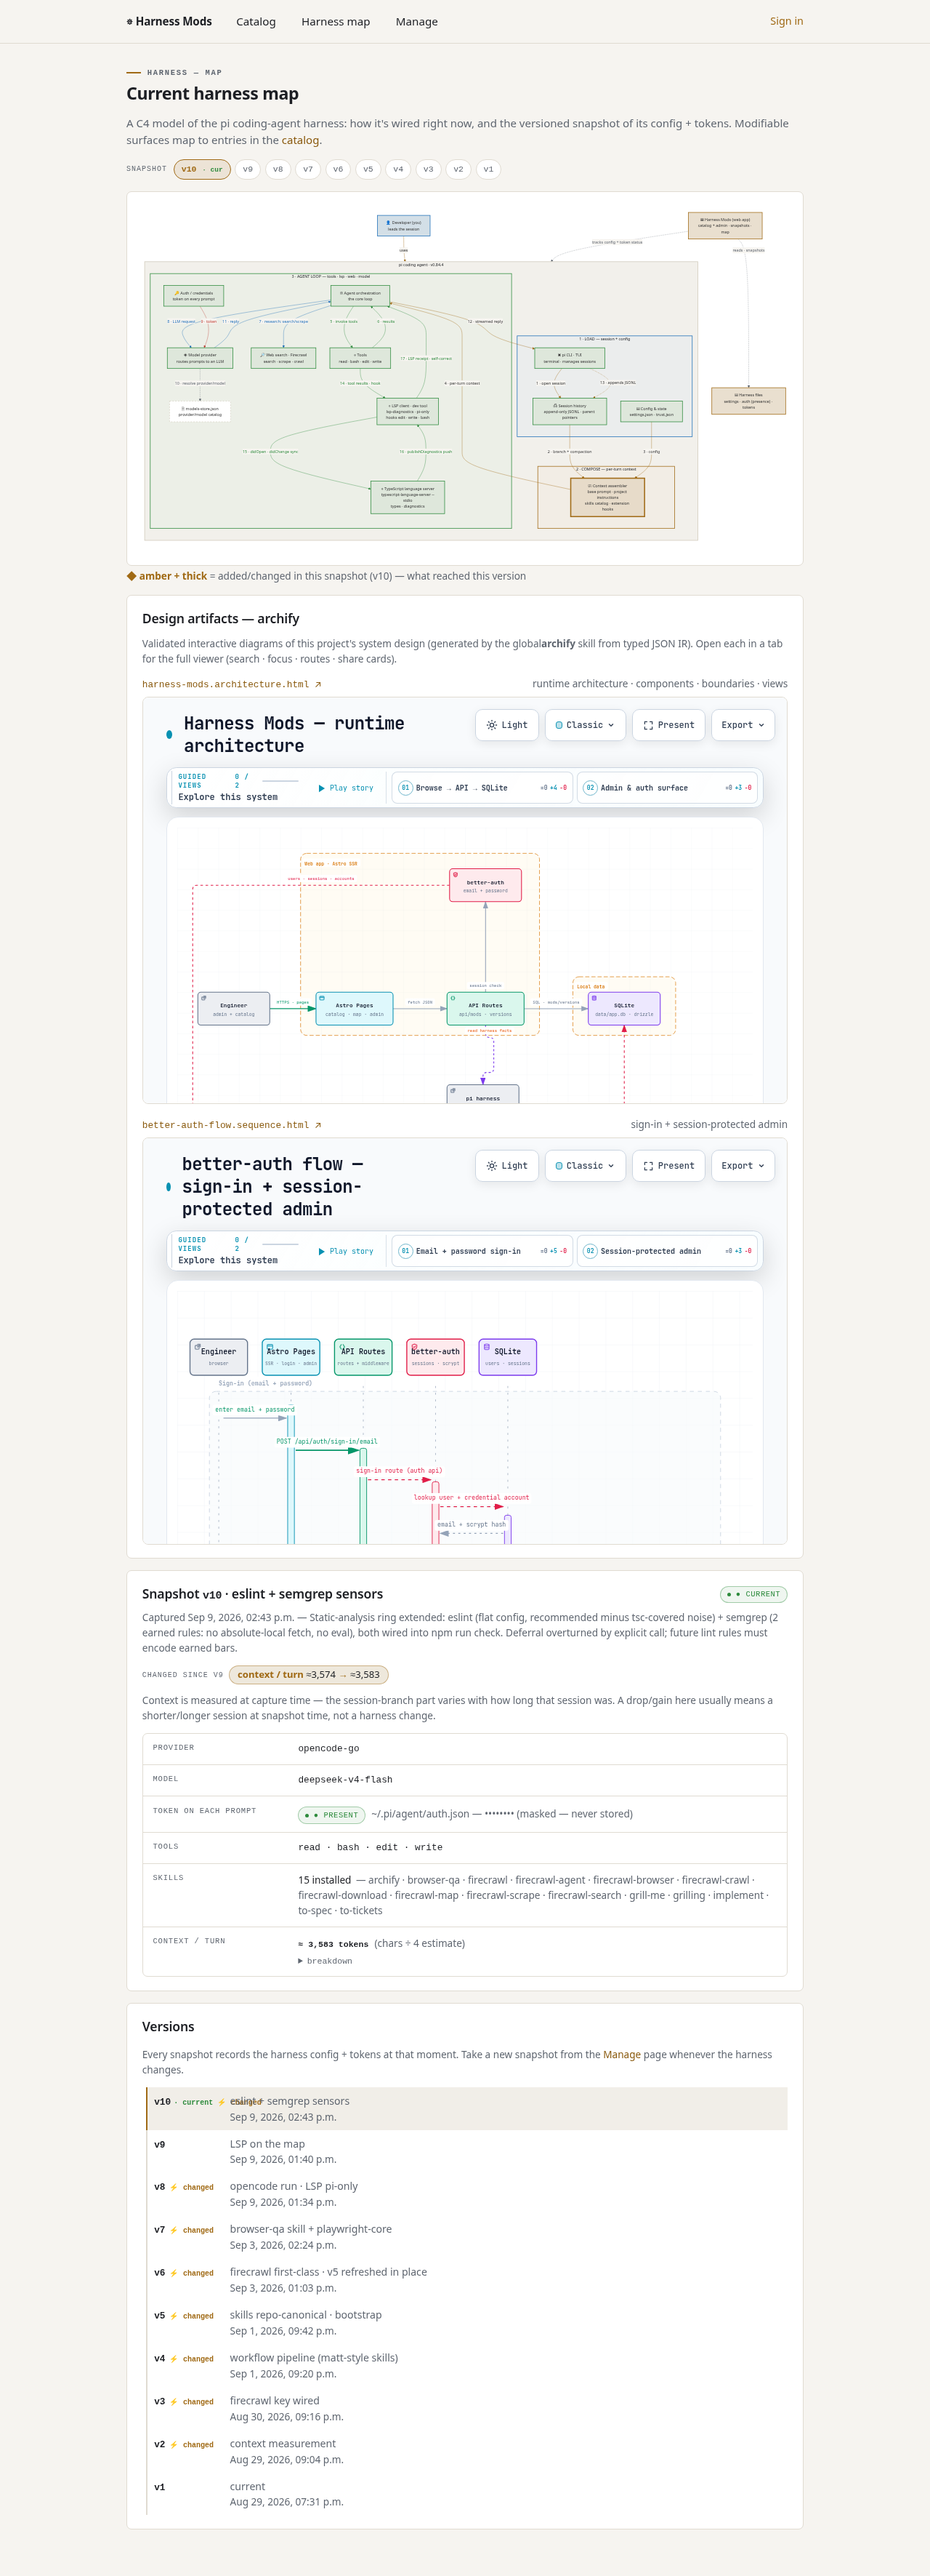
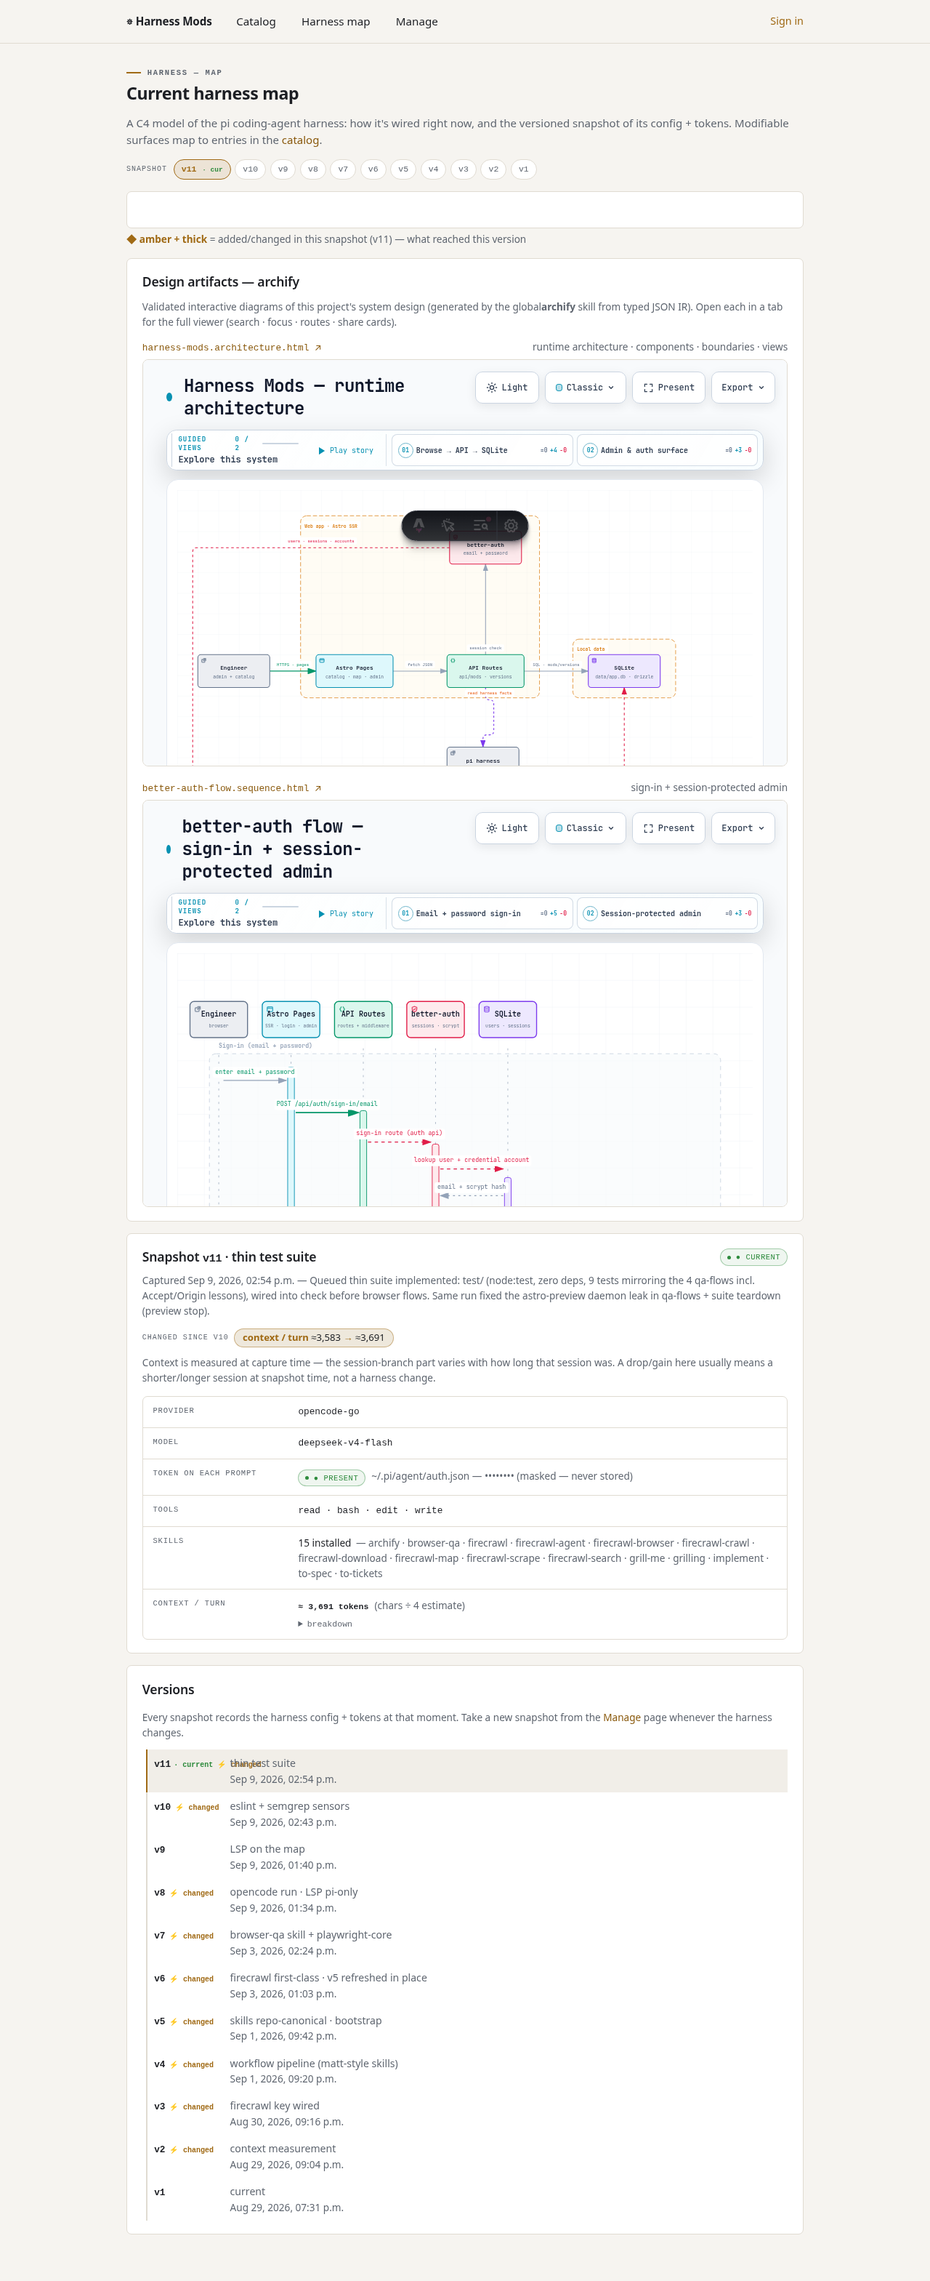
unit coverage

diff --git a/docs/Harness decisions.md b/docs/Harness decisions.md
@@ -329,3 +329,24 @@ Decisions (2026-09-09 — reviewed, have with one queued hole):
    preview) — and writing it caught a real kit bug: `astro preview`
    daemonizes, so spawner-kill leaked the server (stale 54321); both the
    suite helper and qa-flows now reap via `preview stop`.
+5. **Coverage investigated, not adopted — negative result with receipts.**
+   Black-box HTTP coverage must come from the *server* process, but:
+   `astro preview` daemonizes (measured env never reaches the worker —
+   raw V8 data held 2,311 hit functions, zero under `/dist/server/`);
+   direct `node dist/server/entry.mjs` wrote no coverage files at all;
+   and c8 remapped Astro's rolldown bundles to `src/**` at 0% despite
+   real traffic. Cheap V8+c8 cannot see this server. Speculative
+   machinery (sourcemap flag, c8 dep, runner script) was reverted, not
+   kept as shelfware. Revisit triggers: suite growth past ~30 tests, a
+   bug slipping a tested seam, or upstream Astro/Vite coverage support.
+   The suite remains the behavioural gate — it proves the seams.
+6. **Unit coverage adopted for the pure lib core (same session).**
+   Correction to the blanket "unmeasurable": `c4`/`mods`/`context`
+   export pure functions that run in-process — `test/lib.test.mjs`
+   (13 tests: slugify cases, toView fallbacks, token math, highlight
+   dimensions, graph shape + the mermaid-bracket regression + step
+   contiguity) reports real per-file lines (c4 ~90%, mods ~90%,
+   context ~35% — `measureContext` needs fs fakes, openly uncovered).
+   `npm run coverage` uses the built-in flag (zero deps); thresholds
+   stay off until earned — the uncovered-lines list is feedback for the
+   next test session, not a gate.

diff --git a/AGENTS.md b/AGENTS.md
@@ -177,8 +177,12 @@ Thin runnable suite (`test/`, zero deps — `node:test` + global fetch):
 `npm test` runs 9 tests mirroring the 4 qa-flows computationally
 (catalog · harness · archify · login, incl. the Accept-header and
 Origin-header lessons). Reuses `APP_URL` or self-boots preview;
-login write-paths need env creds and sign out after. Wired into
-`npm run check` before the browser flows. Manual smoke checklist retired —
+login write-paths need env creds and sign out after. `npm run coverage`
+runs 13 unit tests over the pure lib core (`c4`, `mods`, `context` —
+incl. the mermaid-bracket regression) with a real per-file report;
+black-box HTTP coverage is unmeasurable on this server (see decisions),
+so thresholds stay off until earned. Both wired into `npm run check`
+before the browser flows. Manual smoke checklist retired —
 the suite + flows are the check; also verify in a real browser on change:
 
 1. `npm run db:setup`
